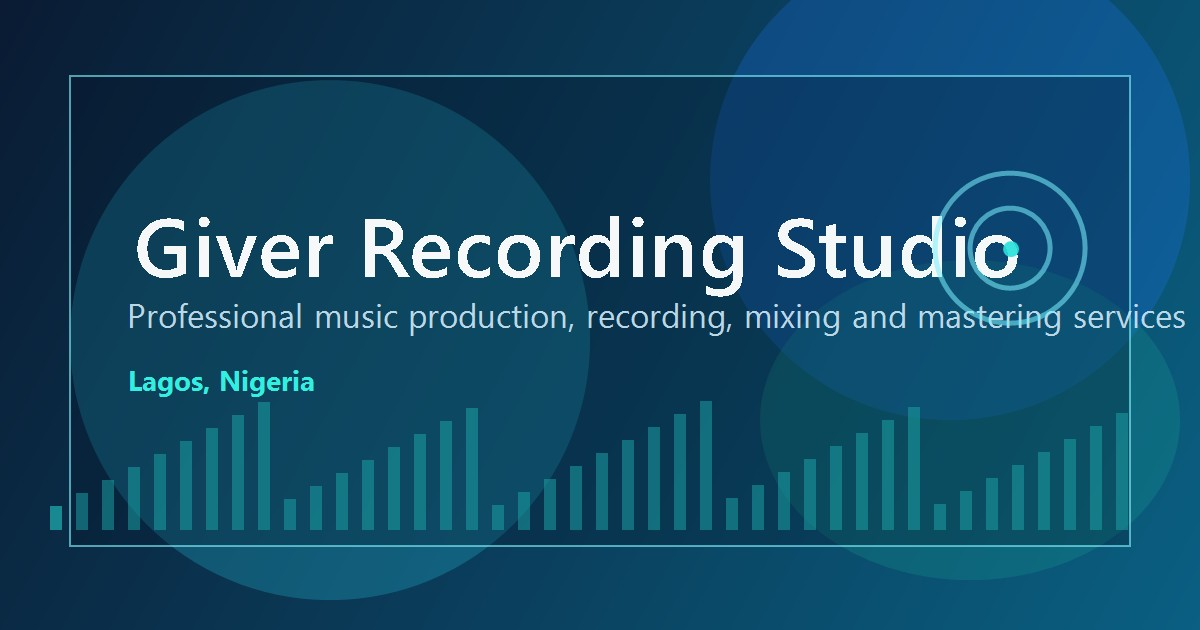
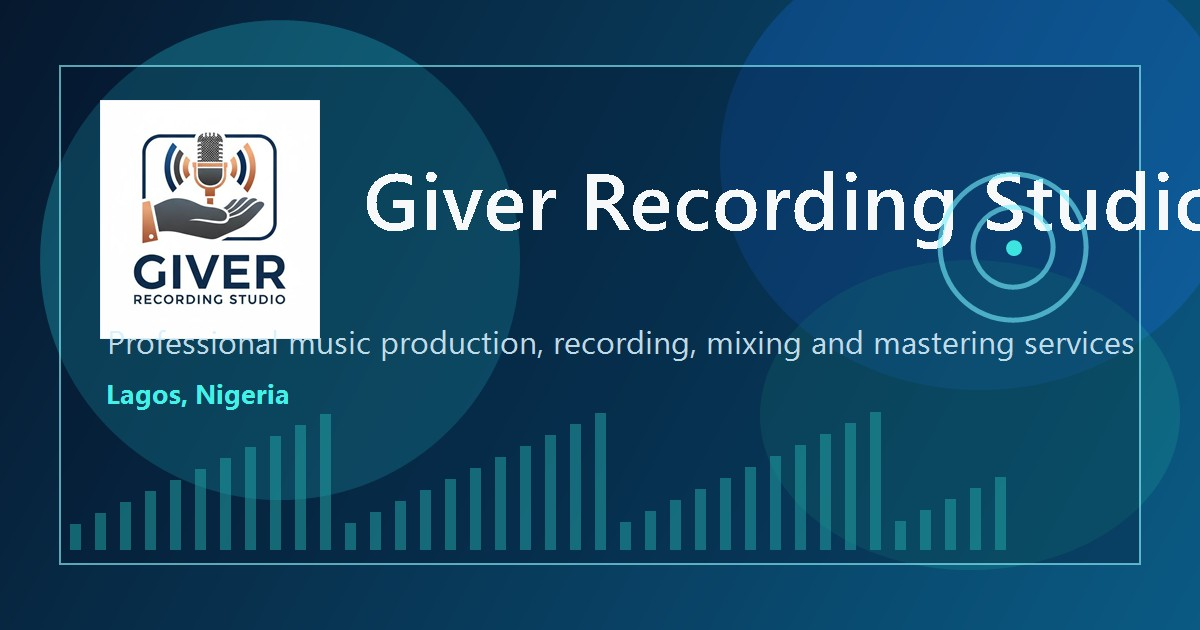
fix(ui): restore original copy and improve iOS audio uploads

diff --git a/src/components/HeroSection.jsx b/src/components/HeroSection.jsx
@@ -1,7 +1,7 @@
 import React from 'react';
 import { Link } from 'react-router-dom';
 import { motion } from 'framer-motion';
-import { PlayCircle, Upload, Sparkles } from 'lucide-react';
+import { PlayCircle, Upload } from 'lucide-react';
 import { Button } from '@/components/ui/button';
 import AnimatedBackground from './AnimatedBackground.jsx';
 const HeroSection = () => {
@@ -20,27 +20,27 @@ const HeroSection = () => {
           transition={{ duration: 0.8, ease: 'easeOut' }}
           className="glass-panel neon-outline rounded-[30px] px-6 py-12 md:px-12 md:py-16"
         >
-          <div className="inline-flex items-center gap-2 px-4 py-2 rounded-full bg-primary/12 border border-primary/25 text-primary mb-8 backdrop-blur-sm">
+          <div className="inline-flex items-center gap-2 px-4 py-2 rounded-full bg-primary/12 border border-primary/25 text-primary mb-8 backdrop-blur-sm mx-auto">
             <span className="relative flex h-3 w-3">
               <span className="animate-ping absolute inline-flex h-full w-full rounded-full bg-primary opacity-75"></span>
               <span className="relative inline-flex rounded-full h-3 w-3 bg-primary"></span>
             </span>
-            <span className="text-xs sm:text-sm font-semibold tracking-[0.17em] uppercase">On The Beat It Is Giver</span>
+            <span className="text-sm font-semibold tracking-wide uppercase">ON THE BEAT IT’S GIVER</span>
           </div>
 
-          <h1 className="text-[2.2rem] sm:text-5xl md:text-7xl lg:text-[5.6rem] font-extrabold text-foreground mb-6 leading-[0.95] tracking-[-0.03em] text-left md:text-center">
-            Sound Like
+          <h1 className="text-5xl md:text-7xl lg:text-8xl font-extrabold text-foreground mb-6 leading-tight tracking-tighter text-center">
+            ELEVATE YOUR
             <br />
             <span className="text-transparent bg-clip-text bg-[linear-gradient(90deg,hsl(var(--primary))_0%,hsl(var(--accent))_48%,hsl(var(--primary))_100%)]">
-              Your Biggest Record
+              SONIC VISION
             </span>
           </h1>
 
-          <p className="text-base sm:text-lg md:text-xl text-foreground/75 mb-10 max-w-3xl mx-auto leading-relaxed font-light text-left md:text-center">
-            Studio-grade production, elite mixing, precision mastering, and standout beat selection built for serious artists in Lagos and beyond.
+          <p className="text-lg md:text-xl text-foreground/70 mb-10 max-w-2xl mx-auto leading-relaxed font-light text-center">
+            Industry standard beats, professional mixing, and mastering. Join the next generation of chart topping artists.
           </p>
 
-          <div className="flex flex-col sm:flex-row gap-4 justify-start md:justify-center items-stretch sm:items-center">
+          <div className="flex flex-col sm:flex-row gap-4 justify-center items-center">
             <Link to="/beats">
               <Button size="lg" className="premium-button w-full sm:w-auto h-14 px-8 text-base md:text-lg">
                 <PlayCircle className="w-5 h-5 mr-2" />
@@ -53,21 +53,6 @@ const HeroSection = () => {
                 Submit Music
               </Button>
             </Link>
-          </div>
-
-          <div className="mt-10 pt-6 border-t border-white/15 flex flex-wrap items-center gap-5 text-sm text-foreground/75">
-            <div className="inline-flex items-center gap-2">
-              <Sparkles className="w-4 h-4 text-primary" />
-              Premium studio workflow
-            </div>
-            <div className="inline-flex items-center gap-2">
-              <span className="h-2 w-2 rounded-full bg-accent" />
-              Instant preview and sharing
-            </div>
-            <div className="inline-flex items-center gap-2">
-              <span className="h-2 w-2 rounded-full bg-primary" />
-              Lagos, Nigeria
-            </div>
           </div>
         </motion.div>
       </div>

diff --git a/src/components/BulkUploadZone.jsx b/src/components/BulkUploadZone.jsx
@@ -4,6 +4,12 @@ import { UploadCloud, FileAudio, X, Trash2 } from 'lucide-react';
 import { Button } from '@/components/ui/button';
 import { toast } from 'sonner';
 
+const SUPPORTED_AUDIO_EXT = /\.(mp3|wav|m4a|aac|flac|ogg)$/i;
+const isSupportedAudioFile = (file) => {
+  if (!file) return false;
+  return file.type.startsWith('audio/') || SUPPORTED_AUDIO_EXT.test(file.name || '');
+};
+
 const BulkUploadZone = ({ files, onAddFiles, onRemoveFile, onClearAll, disabled }) => {
   const [isDragActive, setIsDragActive] = useState(false);
 
@@ -30,11 +36,11 @@ const BulkUploadZone = ({ files, onAddFiles, onRemoveFile, onClearAll, disabled 
     const maxSizeBytes = 20 * 1024 * 1024; // 20MB
 
     Array.from(fileList).forEach(file => {
-      const isMp3 = file.type === 'audio/mpeg' || file.name.toLowerCase().endsWith('.mp3');
+      const isAudio = isSupportedAudioFile(file);
       const isWithinSize = file.size <= maxSizeBytes;
 
-      if (!isMp3) {
-        toast.error(`"${file.name}" skipped: Only MP3 files are allowed.`);
+      if (!isAudio) {
+        toast.error(`"${file.name}" skipped: Unsupported audio format.`);
       } else if (!isWithinSize) {
         toast.error(`"${file.name}" skipped: File size exceeds 20MB limit.`);
       } else {
@@ -99,8 +105,8 @@ const BulkUploadZone = ({ files, onAddFiles, onRemoveFile, onClearAll, disabled 
           id="bulk-file-input"
           type="file"
           multiple
-          accept=".mp3,audio/mpeg"
-          className="hidden"
+          accept="audio/*"
+          className="sr-only"
           onChange={handleFileInput}
           disabled={disabled}
         />
@@ -108,10 +114,10 @@ const BulkUploadZone = ({ files, onAddFiles, onRemoveFile, onClearAll, disabled 
           <UploadCloud className={`w-10 h-10 ${isDragActive ? 'text-primary' : 'text-muted-foreground'}`} />
         </div>
         <h3 className="text-xl font-semibold text-foreground mb-2">
-          {isDragActive ? 'Drop MP3 files here' : 'Drag files here'}
+          {isDragActive ? 'Drop audio files here' : 'Drag files here'}
         </h3>
         <p className="text-sm text-muted-foreground max-w-md mx-auto mb-6">
-          Supports MP3 up to 20MB per file. You can upload multiple files at once.
+          Supports MP3, WAV, M4A, AAC, FLAC and OGG up to 20MB per file.
         </p>
         <Button variant="outline" className="border-primary/30 text-primary hover:bg-primary hover:text-primary-foreground" disabled={disabled}>
           Click to select files

diff --git a/src/pages/ArtistSubmissionPage.jsx b/src/pages/ArtistSubmissionPage.jsx
@@ -18,6 +18,12 @@ import pb from '@/lib/firebaseClient.js';
 import { toast } from 'sonner';
 import { CATEGORIES, CATEGORY_IMAGES } from '@/config/beatCategories.js';
 
+const SUPPORTED_AUDIO_EXT = /\.(mp3|wav|m4a|aac|flac|ogg)$/i;
+const isSupportedAudioFile = (file) => {
+  if (!file) return false;
+  return file.type.startsWith('audio/') || SUPPORTED_AUDIO_EXT.test(file.name || '');
+};
+
 const ArtistSubmissionPage = () => {
   const { lastCategory, setLastCategory } = useLastCategory();
   
@@ -95,6 +101,12 @@ const ArtistSubmissionPage = () => {
   const handleAudioChange = (e) => {
     const selected = e.target.files[0];
     if (selected) {
+      if (!isSupportedAudioFile(selected)) {
+        toast.error('Unsupported audio format. Use MP3, WAV, M4A, AAC, FLAC or OGG.');
+        e.target.value = null;
+        setAudioFile(null);
+        return;
+      }
       if (selected.size > 20 * 1024 * 1024) {
         toast.error('Audio file size must be under 20MB');
         e.target.value = null;
@@ -122,7 +134,7 @@ const ArtistSubmissionPage = () => {
     e.preventDefault();
     
     if (!formData.artistName || !formData.songTitle || !formData.email || !audioFile) {
-      toast.error('Please fill in all required fields and upload an MP3 file.');
+      toast.error('Please fill in all required fields and upload an audio file.');
       return;
     }
 
@@ -306,15 +318,15 @@ const ArtistSubmissionPage = () => {
 
                       <div className="grid grid-cols-1 md:grid-cols-2 gap-6">
                         <div className="space-y-2">
-                          <Label htmlFor="audioFile">Upload Audio (MP3) *</Label>
+                          <Label htmlFor="audioFile">Upload Audio *</Label>
                           <div className="border-2 border-dashed border-border rounded-xl p-4 text-center hover:bg-muted/30 transition-colors bg-background h-32 flex items-center justify-center">
                             <input 
                               type="file" 
                               id="audioFile" 
                               name="audioFile" 
-                              accept=".mp3,audio/mpeg" 
+                              accept="audio/*" 
                               onChange={handleAudioChange}
-                              className="hidden"
+                              className="sr-only"
                               required={!audioFile}
                             />
                             <Label htmlFor="audioFile" className="cursor-pointer flex flex-col items-center gap-2 w-full">

diff --git a/src/components/StickyMiniPlayer.jsx b/src/components/StickyMiniPlayer.jsx
@@ -146,9 +146,15 @@ const StickyMiniPlayer = () => {
 
           <div className="max-w-7xl mx-auto px-4 sm:px-6 lg:px-8 h-[96px] md:h-[106px] flex flex-col md:flex-row items-center justify-between gap-2 md:gap-4 mt-2 md:mt-0 pb-3 md:pb-0 relative">
             
-            <div className="absolute top-[-25px] right-2 flex items-center gap-1 md:hidden">
-                <Button variant="ghost" size="icon" onClick={closePlayer} className="h-8 w-8 text-muted-foreground hover:text-destructive">
-                  <X className="w-5 h-5" />
+            <div className="absolute top-2 right-4 flex items-center gap-2 md:hidden z-30">
+                <Button
+                  variant="ghost"
+                  size="icon"
+                  onClick={closePlayer}
+                  className="h-11 w-11 rounded-full bg-background/70 backdrop-blur border border-border text-muted-foreground hover:text-destructive hover:bg-background/90 active:scale-95"
+                  aria-label="Close player"
+                >
+                  <X className="w-6 h-6" />
                 </Button>
             </div>
 
@@ -161,7 +167,7 @@ const StickyMiniPlayer = () => {
                 />
                 <span className={`absolute inset-0 pointer-events-none ${isPlaying ? 'bg-primary/10' : ''}`} />
               </div>
-              <div className="min-w-0 flex-1 pr-12 md:pr-0">
+              <div className="min-w-0 flex-1 pr-16 md:pr-0">
                 <h4 className="text-base md:text-lg font-bold text-foreground truncate">{currentTrack?.title}</h4>
                 <p className="text-xs md:text-sm text-muted-foreground truncate">{currentTrack?.artist || 'Giver Recording Studio'}</p>
               </div>

diff --git a/src/components/tools/VoiceConverter.jsx b/src/components/tools/VoiceConverter.jsx
@@ -3,6 +3,12 @@ import React, { useState, useRef, useEffect } from 'react';
 import { UploadCloud, FileAudio as AudioWaveform, Play, Pause, RefreshCw, FileAudio } from 'lucide-react';
 import { Button } from '@/components/ui/button';
 
+const SUPPORTED_AUDIO_EXT = /\.(mp3|wav|m4a|aac|flac|ogg)$/i;
+const isSupportedAudioFile = (file) => {
+  if (!file) return false;
+  return file.type.startsWith('audio/') || SUPPORTED_AUDIO_EXT.test(file.name || '');
+};
+
 const PRESETS = [
   { id: 'normal', name: 'Original', pitch: 1 },
   { id: 'pitchUp', name: 'Pitch Up', pitch: 1.5 },
@@ -28,7 +34,7 @@ const VoiceConverter = () => {
 
   const handleFileChange = (e) => {
     const selected = e.target.files[0];
-    if (selected && selected.type.startsWith('audio/')) {
+    if (selected && isSupportedAudioFile(selected)) {
       const preview = URL.createObjectURL(selected);
       setFile({ file: selected, name: selected.name, preview });
       if (audioRef.current) {
@@ -76,10 +82,10 @@ const VoiceConverter = () => {
       <audio 
         ref={audioRef} 
         onEnded={() => setIsPlaying(false)}
-        className="hidden" 
+        className="sr-only" 
       />
       
-      <input type="file" accept="audio/*" className="hidden" ref={fileInputRef} onChange={handleFileChange} />
+      <input id="voice-converter-audio-input" type="file" accept="audio/*" className="sr-only" ref={fileInputRef} onChange={handleFileChange} />
       
       {!file ? (
         <div 

diff --git a/src/components/tools/BPMKeyDetector.jsx b/src/components/tools/BPMKeyDetector.jsx
@@ -3,6 +3,12 @@ import React, { useState, useRef, useEffect } from 'react';
 import { UploadCloud, Music, FileAudio, RefreshCw, Activity } from 'lucide-react';
 import { Button } from '@/components/ui/button';
 
+const SUPPORTED_AUDIO_EXT = /\.(mp3|wav|m4a|aac|flac|ogg)$/i;
+const isSupportedAudioFile = (file) => {
+  if (!file) return false;
+  return file.type.startsWith('audio/') || SUPPORTED_AUDIO_EXT.test(file.name || '');
+};
+
 const BPMKeyDetector = () => {
   const [file, setFile] = useState(null);
   const [status, setStatus] = useState('idle'); // idle, processing, complete
@@ -20,7 +26,7 @@ const BPMKeyDetector = () => {
 
   const handleFileChange = (e) => {
     const selected = e.target.files[0];
-    if (selected && selected.type.startsWith('audio/')) {
+    if (selected && isSupportedAudioFile(selected)) {
       const preview = URL.createObjectURL(selected);
       setFile({ file: selected, name: selected.name, size: (selected.size / 1024 / 1024).toFixed(2), preview });
       processAudio(selected);
@@ -89,9 +95,10 @@ const BPMKeyDetector = () => {
   return (
     <div className="space-y-6">
       <input 
+        id="bpm-key-audio-input"
         type="file" 
         accept="audio/*" 
-        className="hidden" 
+        className="sr-only" 
         ref={fileInputRef} 
         onChange={handleFileChange}
       />

diff --git a/src/components/tools/AudioToLyrics.jsx b/src/components/tools/AudioToLyrics.jsx
@@ -4,6 +4,12 @@ import { UploadCloud, FileText, Copy, CheckCircle2, Download } from 'lucide-reac
 import { Button } from '@/components/ui/button';
 import { toast } from 'sonner';
 
+const SUPPORTED_AUDIO_EXT = /\.(mp3|wav|m4a|aac|flac|ogg)$/i;
+const isSupportedAudioFile = (file) => {
+  if (!file) return false;
+  return file.type.startsWith('audio/') || SUPPORTED_AUDIO_EXT.test(file.name || '');
+};
+
 const AudioToLyrics = () => {
   const [file, setFile] = useState(null);
   const [status, setStatus] = useState('idle');
@@ -25,7 +31,7 @@ We're making history, making our way`;
 
   const handleFileChange = (e) => {
     const selected = e.target.files[0];
-    if (selected && selected.type.startsWith('audio/')) {
+    if (selected && isSupportedAudioFile(selected)) {
       setFile(selected);
       processAudio();
     }
@@ -66,7 +72,7 @@ We're making history, making our way`;
 
   return (
     <div className="space-y-6">
-      <input type="file" accept="audio/*" className="hidden" ref={fileInputRef} onChange={handleFileChange} />
+      <input id="audio-to-lyrics-input" type="file" accept="audio/*" className="sr-only" ref={fileInputRef} onChange={handleFileChange} />
       
       {status === 'idle' && (
         <div 

diff --git a/src/components/tools/VocalRemover.jsx b/src/components/tools/VocalRemover.jsx
@@ -3,6 +3,12 @@ import React, { useState, useRef, useEffect } from 'react';
 import { UploadCloud, MicOff, Download, RefreshCw, FileAudio } from 'lucide-react';
 import { Button } from '@/components/ui/button';
 
+const SUPPORTED_AUDIO_EXT = /\.(mp3|wav|m4a|aac|flac|ogg)$/i;
+const isSupportedAudioFile = (file) => {
+  if (!file) return false;
+  return file.type.startsWith('audio/') || SUPPORTED_AUDIO_EXT.test(file.name || '');
+};
+
 const VocalRemover = () => {
   const [file, setFile] = useState(null);
   const [status, setStatus] = useState('idle');
@@ -17,7 +23,7 @@ const VocalRemover = () => {
 
   const handleFileChange = (e) => {
     const selected = e.target.files[0];
-    if (selected && selected.type.startsWith('audio/')) {
+    if (selected && isSupportedAudioFile(selected)) {
       const preview = URL.createObjectURL(selected);
       setFile({ file: selected, name: selected.name, size: (selected.size / 1024 / 1024).toFixed(2), preview });
       processAudio();
@@ -104,7 +110,7 @@ const VocalRemover = () => {
 
   return (
     <div className="space-y-6">
-      <input type="file" accept="audio/*" className="hidden" ref={fileInputRef} onChange={handleFileChange} />
+      <input id="vocal-remover-audio-input" type="file" accept="audio/*" className="sr-only" ref={fileInputRef} onChange={handleFileChange} />
       
       {status === 'idle' && (
         <div 

diff --git a/src/components/tools/AudioConverter.jsx b/src/components/tools/AudioConverter.jsx
@@ -6,6 +6,11 @@ import { Select, SelectContent, SelectItem, SelectTrigger, SelectValue } from '@
 import { toast } from 'sonner';
 
 const FORMATS = ['MP3', 'WAV', 'FLAC', 'AAC', 'M4A'];
+const SUPPORTED_AUDIO_EXT = /\.(mp3|wav|m4a|aac|flac|ogg)$/i;
+const isSupportedAudioFile = (file) => {
+  if (!file) return false;
+  return file.type.startsWith('audio/') || SUPPORTED_AUDIO_EXT.test(file.name || '');
+};
 
 const AudioConverter = () => {
   const [file, setFile] = useState(null);
@@ -21,7 +26,7 @@ const AudioConverter = () => {
 
   const handleFileChange = (e) => {
     const selected = e.target.files[0];
-    if (selected && selected.type.startsWith('audio/')) {
+    if (selected && isSupportedAudioFile(selected)) {
       const preview = URL.createObjectURL(selected);
       setFile({ file: selected, name: selected.name, preview });
     }
@@ -54,7 +59,7 @@ const AudioConverter = () => {
 
   return (
     <div className="space-y-6">
-      <input type="file" accept="audio/*" className="hidden" ref={fileInputRef} onChange={handleFileChange} />
+      <input id="audio-converter-input" type="file" accept="audio/*" className="sr-only" ref={fileInputRef} onChange={handleFileChange} />
       
       {!file ? (
         <div 

diff --git a/src/hooks/useBulkUpload.js b/src/hooks/useBulkUpload.js
@@ -4,6 +4,12 @@ import pb from '@/lib/firebaseClient.js';
 import useLastCategory from './useLastCategory.js';
 import { useDuplicateDetection } from './useDuplicateDetection.js';
 
+const SUPPORTED_AUDIO_EXT = /\.(mp3|wav|m4a|aac|flac|ogg)$/i;
+const isSupportedAudioFile = (file) => {
+  if (!file) return false;
+  return file.type.startsWith('audio/') || SUPPORTED_AUDIO_EXT.test(file.name || '');
+};
+
 const getAudioDuration = (file) => {
   return new Promise((resolve) => {
     const url = URL.createObjectURL(file);
@@ -32,7 +38,7 @@ const useBulkUpload = (collectionName = 'beats') => {
 
   const addFiles = useCallback(async (newFiles) => {
     const validFiles = Array.from(newFiles).filter(file => 
-      file.type === 'audio/mpeg' || file.name.toLowerCase().endsWith('.mp3')
+      isSupportedAudioFile(file)
     );
 
     const fileObjects = await Promise.all(validFiles.map(async (file) => {

diff --git a/src/pages/SongPreviewPage.jsx b/src/pages/SongPreviewPage.jsx
@@ -174,7 +174,7 @@ const SongPreviewPage = () => {
     <>
       <MetaHead 
         title={`${song.title} | Giver Recording Studio`}
-        description={song.description || `${song.title} by Giver Recording Studio. ${durationLabel ? `Duration ${durationLabel}. ` : ''}Professional ${categoryName} music crafted in Lagos, Nigeria.`}
+        description={song.description || `Download ${song.title}, a premium ${categoryName} track by Giver Recording Studio.`}
         image={coverImage}
         url={currentUrl}
         type="music.song"